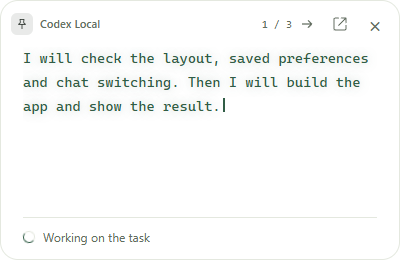
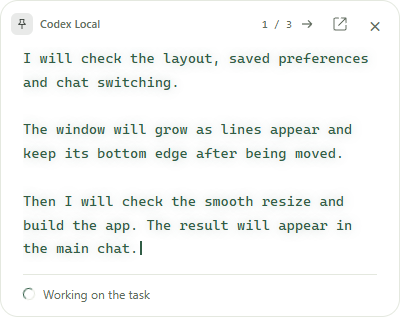
Update overlay resizing and sidebar documentation for 0.8.37 [skip ci]

diff --git a/README.md b/README.md
@@ -14,7 +14,9 @@ This repository contains **installers and documentation**. Application source co
 
 ![Codex Local desktop workspace with projects, a launch checklist and usage limits](assets/screenshots/en/workspace-light.png)
 
-<p align="center"><sub>Codex Local 0.8.36 · Actual interface with demo projects and conversations.</sub></p>
+<p align="center"><sub>Codex Local 0.8.37 · Actual interface with demo projects and conversations.</sub></p>
+
+Project and chat names, counts and headings in the sidebar use larger text on desktop and phones. On desktop, drag the sidebar’s right edge to adjust its width.
 
 ## Features
 
@@ -39,11 +41,11 @@ The interface is available in English and Russian. Choose your language in **Set
 
 ## Always-on-top window
 
-Open the window from the chat header. On Windows it stays above other apps and can open automatically when Codex Local is minimized or in the background. Pin it to prevent accidental dragging. The arrow switches between active and unread chats; viewing the window does not mark answers as read.
+Open the window from the chat header. On Windows it stays above other apps and can open automatically when Codex Local is minimized or in the background. Pin it to prevent accidental dragging. A counter and switching arrow appear when multiple running or unread chats are available; viewing the window does not mark answers as read.
 
 The header shows the project name; the window shows the full latest progress message and a short status with a spinner: Thinking, Working on the task or Optimizing conversation. New fragments appear smoothly, with the blinking caret at the end of the text. Commands and their output are hidden. When a task finishes, it displays **Work finished**; the **Open chat** icon beside Close is always available.
 
-In **Settings → Always-on-top window**, choose text and window styles from visual cards. **Test overlay** opens a real window using your draft size and appearance; **Default** restores the width and height to 400 × 260. Font size can be set from 10 to 32 px. Long text can scroll manually, scroll automatically from top to bottom in a loop, or grow the window within the screen. Hover pauses automatic scrolling for manual reading; moving away resumes it. The color picker appears directly inside the Custom color card. Set the theme color, position, opacity and automatic opening there too. Disabling the feature hides the chat button and detailed settings. Supported browsers offer manual opening with Picture-in-Picture.
+In **Settings → Always-on-top window**, choose text and window styles from visual cards. **Test overlay** opens a real window using your draft size and appearance; **Default** restores the width and height to 400 × 260. Font size can be set from 10 to 32 px. Long text can scroll manually, scroll automatically from top to bottom in a loop, or grow the window within the screen. It grows smoothly as lines appear and keeps its bottom edge fixed as the height changes. Hover pauses automatic scrolling for manual reading; moving away resumes it. The color picker appears directly inside the Custom color card. Set the theme color, position, opacity and automatic opening there too. Disabling the feature hides the chat button and detailed settings. Supported browsers offer manual opening with Picture-in-Picture.
 
 | Progress window | Compact settings |
 | --- | --- |
